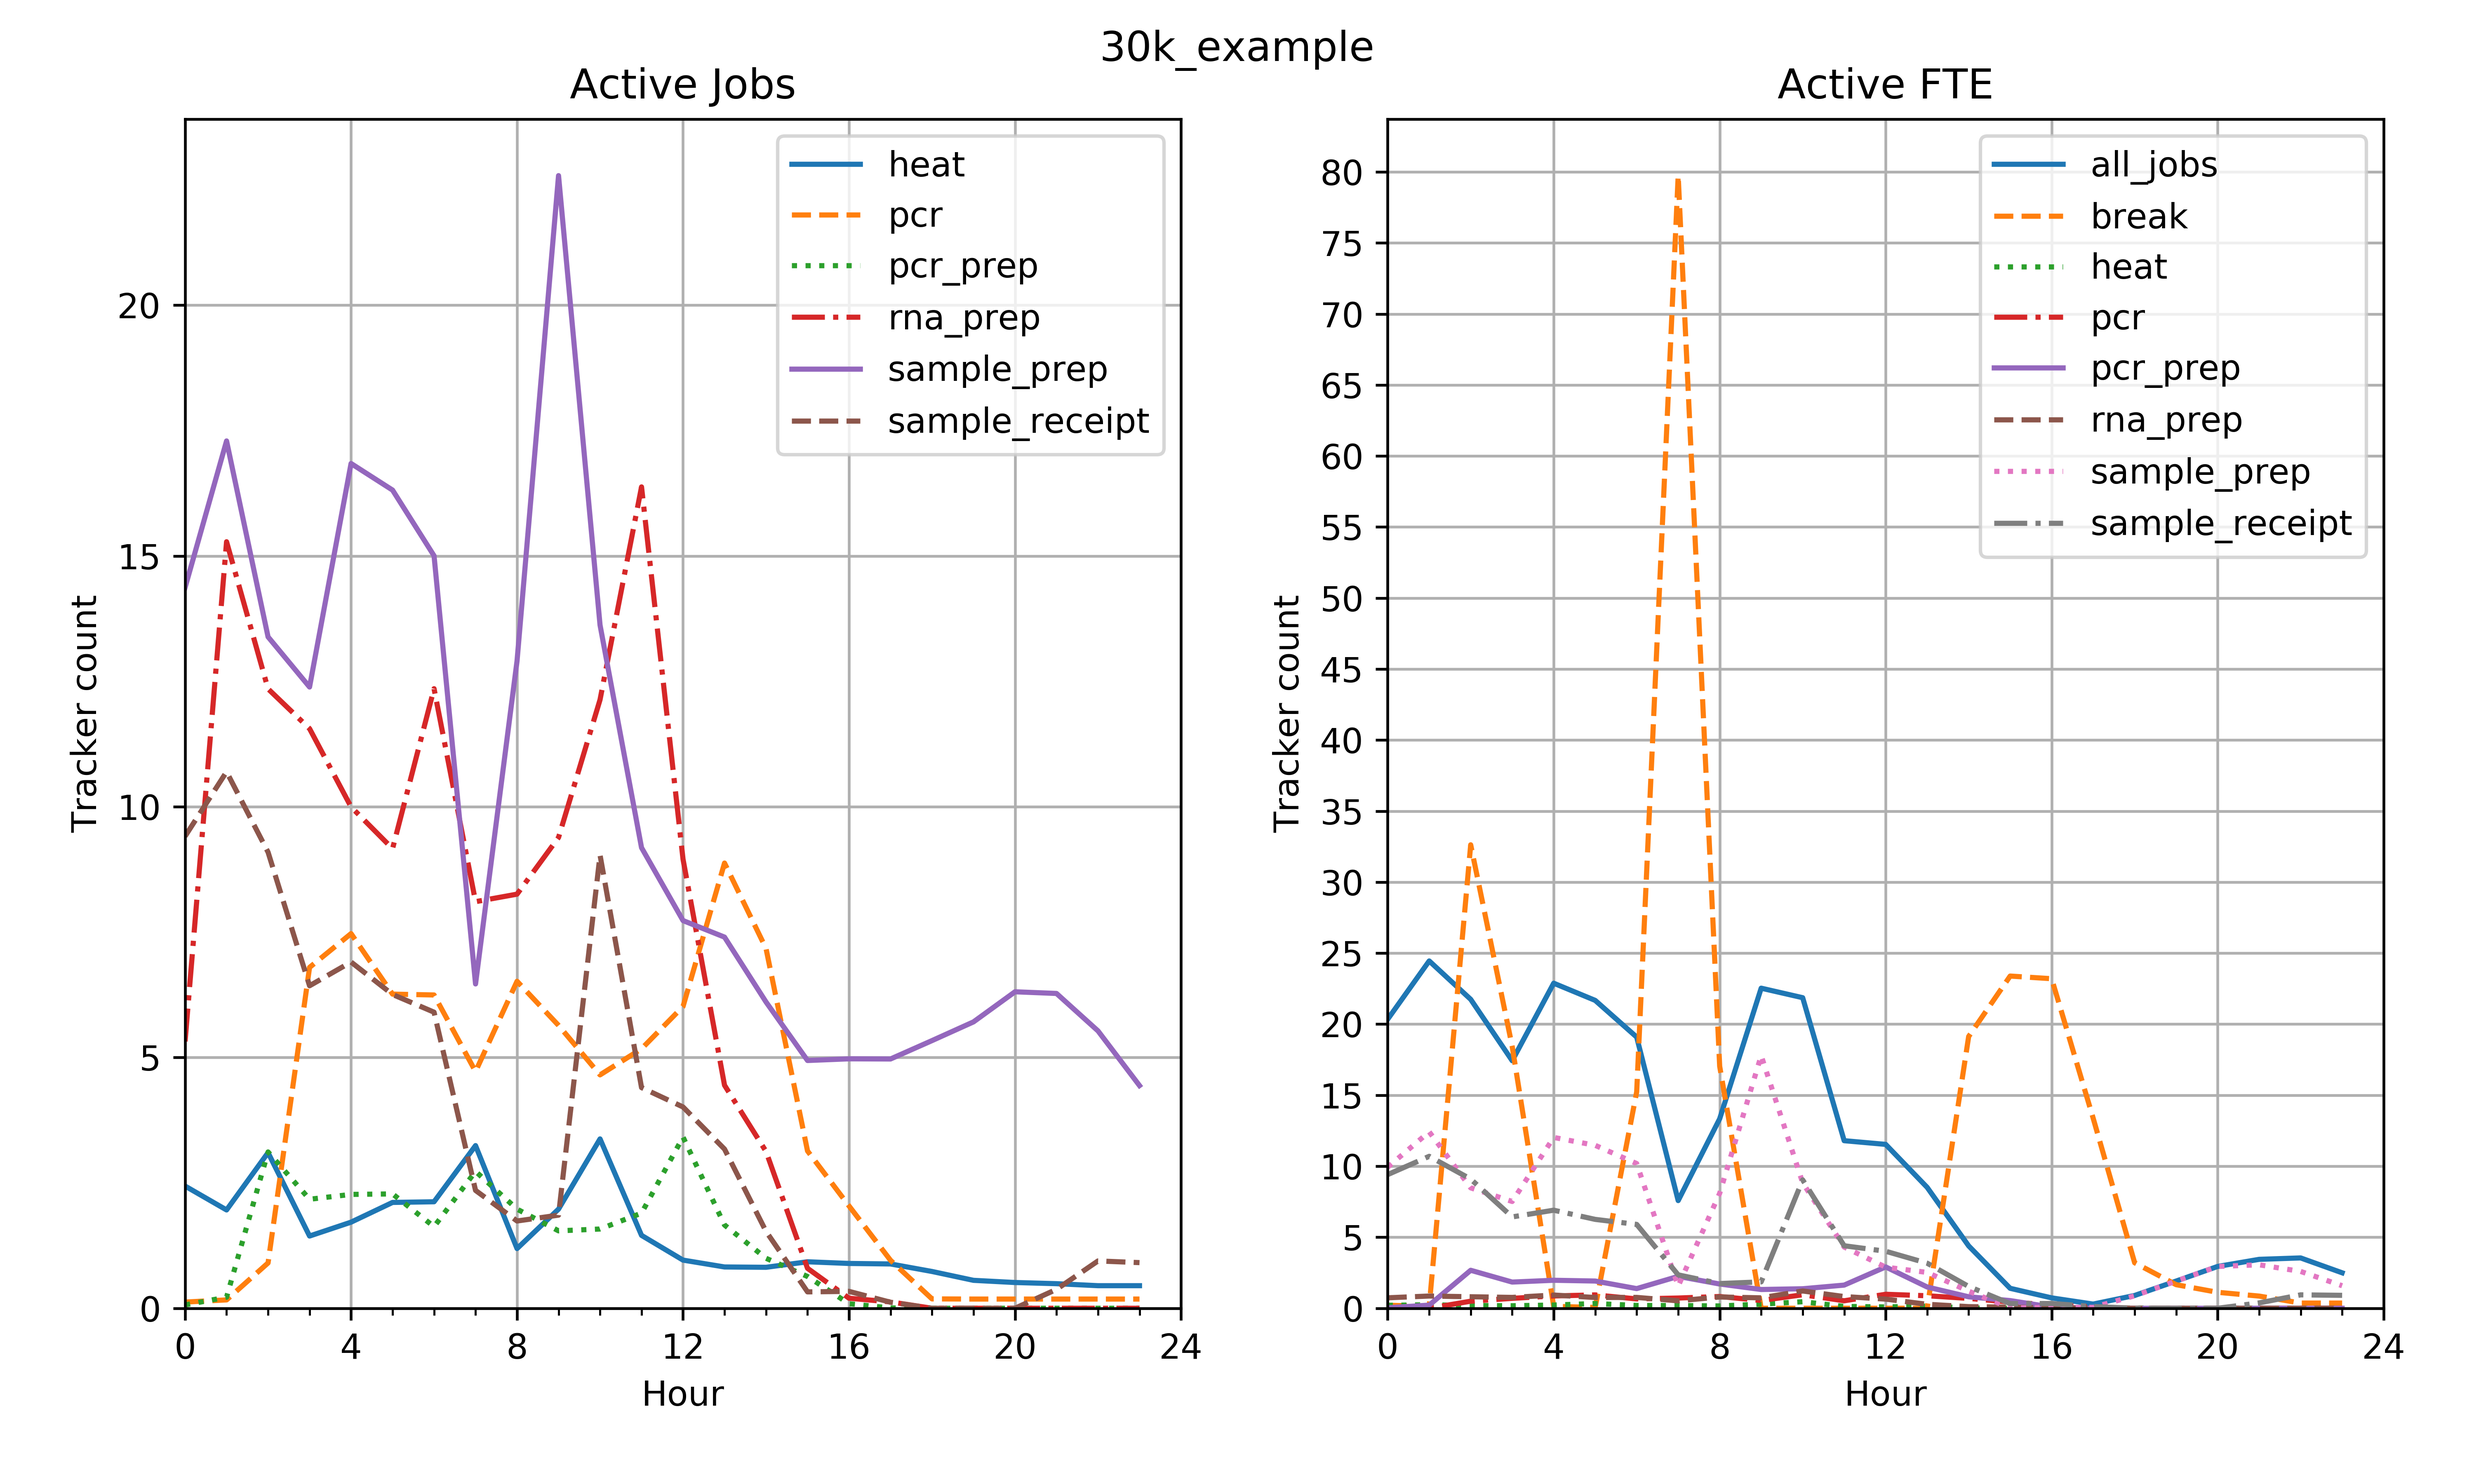
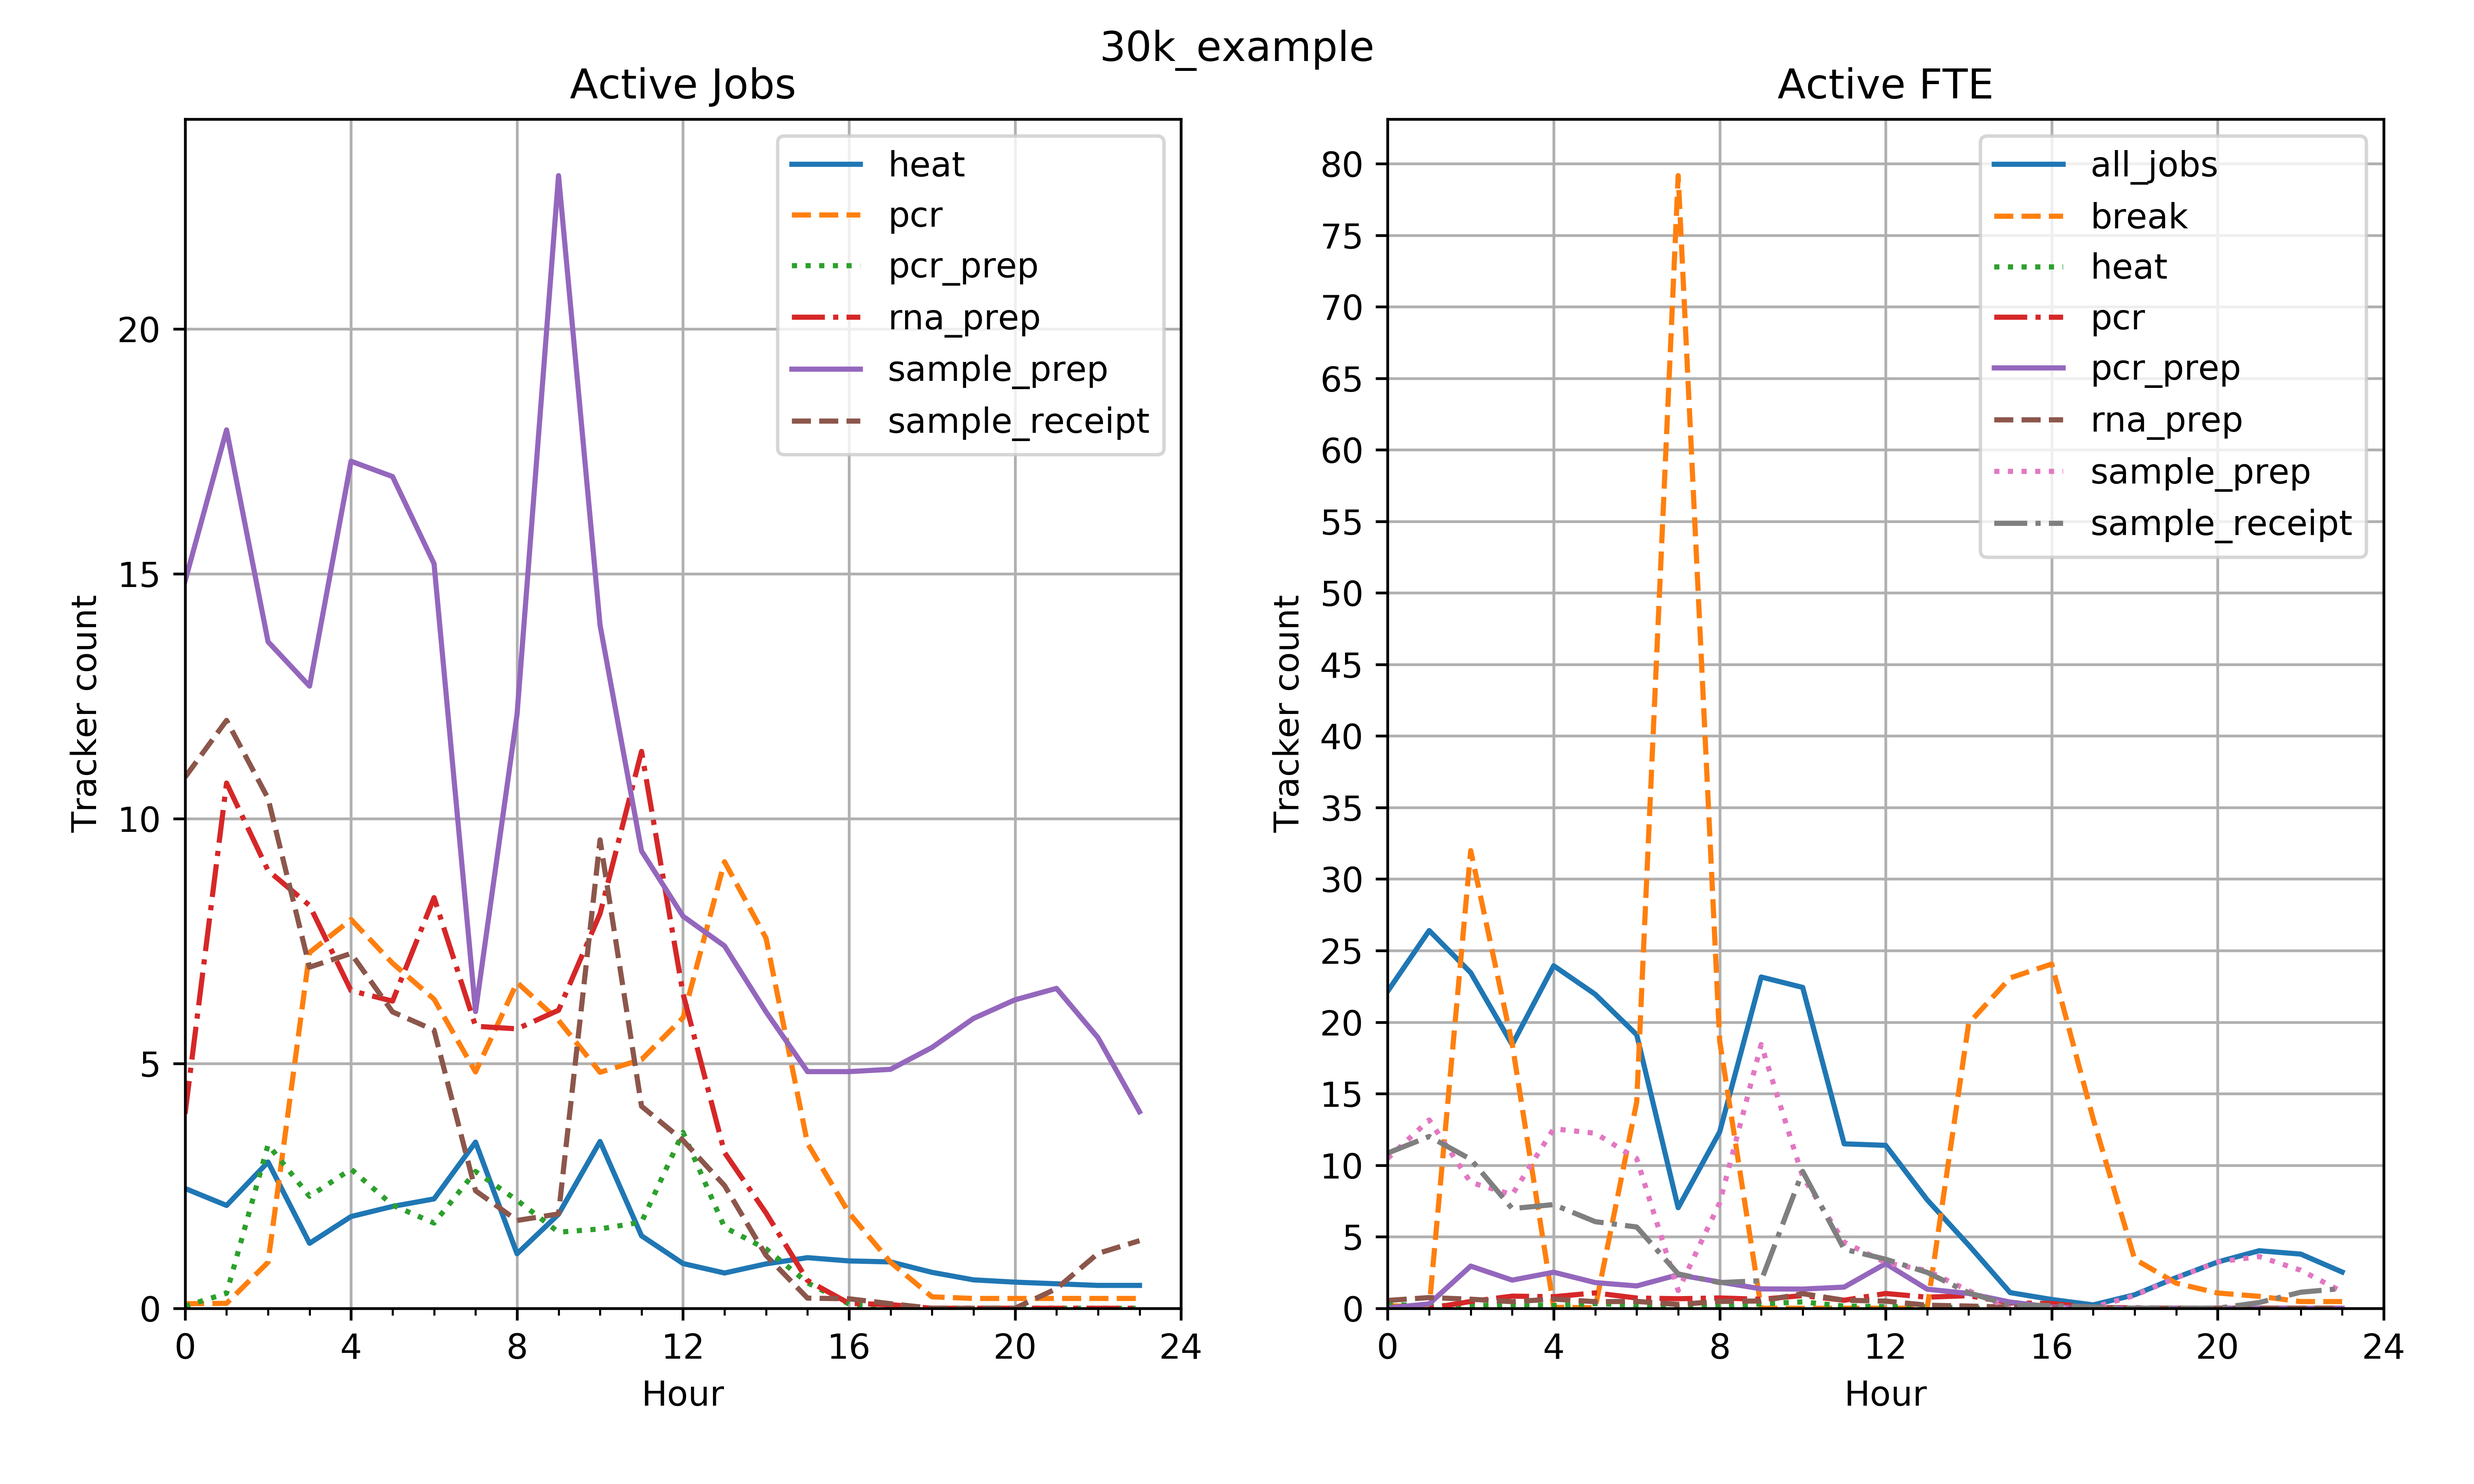
Allow RNA prep batch size ro be altered

diff --git a/sim_utils/process.py b/sim_utils/process.py
@@ -1,6 +1,7 @@
 from sim_utils.process_steps import ProcessSteps
 from sim_utils.audit import Audit
 
+
 class Process:
     """
     A collection of process steps.
@@ -12,10 +13,10 @@ class Process:
     parent_child = child ids for each parent id (dictionary)
  
     """
-    
+
     def __init__(self, _env, _params, resources, resources_available,
                  resources_occupied, workstation_assigned_jobs):
-        
+
         # Question: do we need a dictionary of all enitites in model?
         self._env = _env
         self._params = _params
@@ -29,7 +30,7 @@ class Process:
         self.resources_available = resources_available
         self.resources_occupied = resources_occupied
         self.workstation_assigned_jobs = workstation_assigned_jobs
-        
+
         # Queues for assignment
         self.queues = {
             'q_batch_input': [],
@@ -43,10 +44,11 @@ class Process:
             'q_pcr_prep': [],
             'q_rna_collation': [],
             'q_rna_extraction': [],
+            'q_rna_extraction_split': [],
             'q_sample_receipt': [],
             'q_sample_prep': []
-            }
-            
+        }
+
         # Queue monitor (lists of time/time out tuples)
         self.queue_monitors = {
             'q_data_analysis': [],
@@ -58,10 +60,11 @@ class Process:
             'q_pcr_prep': [],
             'q_rna_collation': [],
             'q_rna_extraction': [],
+            'q_rna_extraction_split': [],
             'q_sample_prep': [],
             'q_sample_receipt': []
-            }
- 
+        }
+
         # Process step counters
         self.process_step_counters = {
             'data_analysis': 0,
@@ -72,7 +75,7 @@ class Process:
             'sample_prep_auto': 0,
             'sample_prep_manual': 0,
             'sample_receipt': 0,
-            }
+        }
 
         # Link from process priorities to process assign calls
         self.process_assign_calls = {
@@ -83,15 +86,14 @@ class Process:
             'sample_prep_auto': self.assign_sample_prep,
             'sample_prep_manual': self.assign_sample_prep,
             'sample_receipt': self.assign_sample_receipt
-            }
-                 
-        
+        }
+
     def assign(self, queue, process):
-        
+
         process_func = self.process_steps.process_step_funcs[process]
         # Assign sample_receipts
         new_unallocated_queue = []
-       
+
         while (len(self.queues[queue]) > 0):
             # Check kanban limits 
             job_size = self.queues[queue][-1].batch_size
@@ -117,7 +119,7 @@ class Process:
                     for kanban_group in relevant_kanban_groups:
                         self._params.kanban_group_counts[kanban_group] += \
                             job_size
-            
+
             # All relevant kanban limits OK -  proceed to assign job
             job = self.queues[queue].pop()
             workstation = self.indentify_workstation(process)
@@ -125,27 +127,25 @@ class Process:
                 # Allocate job to sample_receipt process
                 process_func(workstation, job)
                 self.workstation_assigned_jobs[workstation] += 1
-            else: 
+            else:
                 # Process workstations full, move all remaining jobs to
                 # unallocated job queue
                 new_unallocated_queue = [job] + self.queues[queue]
                 self.queues[queue] = []
-                
+
         self.queues[queue] = new_unallocated_queue
 
-        
     def assign_analysis(self):
         # pass any new input to process_step.batch_input
-        q = 'q_data_analysis'; process = 'data_analysis'
-        self.assign(q, process)    
-
+        q = 'q_data_analysis';
+        process = 'data_analysis'
+        self.assign(q, process)
 
     def assign_batch_input(self):
         # pass any new input to process_step.batch_input
         q = 'q_batch_input'
         process = 'batch_input'
         self.assign(q, process)
-
 
     def assign_pcr_prep(self, time_of_day, time_left):
         shift = self._params.process_start_hours['pcr_prep']
@@ -154,14 +154,12 @@ class Process:
             process = 'pcr_prep'
             self.assign(q, process)
 
-        
     def assign_pcr(self, time_of_day, time_left):
         shift = self._params.process_start_hours['pcr']
         if shift[0] * 60 <= time_of_day <= shift[1] * 60:
             q = 'q_pcr'
             process = 'pcr'
             self.assign(q, process)
-
 
     def assign_rna_extraction(self, time_of_day, time_left):
         shift = self._params.process_start_hours['rna_extraction']
@@ -171,52 +169,48 @@ class Process:
             process = 'rna_extraction'
             self.assign(q, process)
 
-
     def assign_sample_heat(self, time_of_day, time_left):
         shift = self._params.process_start_hours['sample_heat']
         if shift[0] * 60 <= time_of_day <= shift[1] * 60:
             # Assign sample_receipts
-            q = 'q_heat'; process = 'sample_heat'
+            q = 'q_heat';
+            process = 'sample_heat'
             self.assign(q, process)
-        
 
     def assign_sample_receipt(self, time_of_day, time_left):
         shift = self._params.process_start_hours['sample_receipt']
         if shift[0] * 60 <= time_of_day <= shift[1] * 60:
-                # Assign sample_receipts
-                q = 'q_sample_receipt'
-                process = 'sample_receipt'
-                self.assign(q, process)
-        
+            # Assign sample_receipts
+            q = 'q_sample_receipt'
+            process = 'sample_receipt'
+            self.assign(q, process)
+
     def assign_sample_prep(self, time_of_day, time_left):
         shift = self._params.process_start_hours['sample_prep']
-        if shift[0] * 60 <= time_of_day <= shift[1] * 60:            
+        if shift[0] * 60 <= time_of_day <= shift[1] * 60:
             q = 'q_sample_prep'
             process = 'sample_prep_auto'
             self.assign(q, process)
-            
-            #Also use manual process if allowed
+
+            # Also use manual process if allowed
             if self._params.allow_manual_sample_prep:
                 q = 'q_sample_prep'
                 process = 'sample_prep_manual'
                 self.assign(q, process)
 
-
     def collate_for_heat(self):
-        # Takes plates from sample receipt
-        self.process_steps.collate(
-            self._params.heat_batch_size, 'q_heat_collation', 'q_heat')
-
+        # Takes plates from sample receipt (will be split after)
+        self.process_steps.collate(self._params.heat_batch_size,
+                                   'q_heat_collation', 'q_heat')
 
     def collate_for_pcr(self):
-        # Takes 4 plates from sample prep
-        self.process_steps.collate(2, 'q_pcr_collation', 'q_pcr_prep')
-
+        # Takes 4 plates from RNA extraction
+        self.process_steps.collate(4, 'q_pcr_collation', 'q_pcr_prep')
 
     def collate_for_rna_extraction(self):
-        # Process two plates for RNA extraction
-        self.process_steps.collate(2, 'q_rna_collation', 'q_rna_extraction')
-
+        # Process multiple plates for RNA extraction (will be split after)
+        self.process_steps.collate(self._params.rna_extraction_batch_size,
+                                   'q_rna_collation', 'q_rna_extraction')
 
     def control_process(self):
         yield self._env.timeout(5)
@@ -225,28 +219,27 @@ class Process:
 
             time_of_day = self._env.now % self._params.day_duration
             time_left = self._params.day_duration - time_of_day
-            
+
             # Model admin jobs (no resources needed)
             self.assign_batch_input()
             self.assign_analysis()
             self.collate_for_pcr()
             self.collate_for_rna_extraction()
+            self.split_after_rna_extraction()
             self.collate_for_heat()
             self.split_after_heat()
-            
+
             for key in self._params.process_priorites.keys():
                 self.process_assign_calls[key](time_of_day, time_left)
-                    
+
             # Time before next control loop
             yield self._env.timeout(1.0)
-           
-    
+
     def display_day(self):
         while True:
-            print (f'\r>> Day {int(self._env.now/self._params.day_duration)}',
-                   end='')
+            print(f'\r>> Day {int(self._env.now / self._params.day_duration)}',
+                  end='')
             yield self._env.timeout(self._params.day_duration)
-
 
     def end_run_routine(self):
         self.audit.summarise_in_out()
@@ -254,17 +247,17 @@ class Process:
         self.audit.summarise_queues()
         self.audit.summarise_queue_times()
         self.audit.summarise_trackers()
-            
+
     def indentify_workstation(self, process):
         """
         Loops through workstations that can perform a process. Looks for 
         workstation with greatest remaining capacity. If no workstation has
         capapcity, returns 'none'
         """
-        
+
         selected_workstation = 'none'
         best_remaining_capacity = 0
-        
+
         workstations = self._params.process_workstations[process]
         for workstation in workstations:
             workstation_capacity = \
@@ -274,14 +267,12 @@ class Process:
             if remaining_capacity > best_remaining_capacity:
                 best_remaining_capacity = remaining_capacity
                 selected_workstation = workstation
-        
+
         return selected_workstation
-    
 
     def set_up_audit(self):
         self.audit = Audit(self)
-     
-        
+
     def set_up_breaks(self):
         if len(self._params.meal_break_times) > 0:
             for meal_break in self._params.meal_break_times:
@@ -292,11 +283,13 @@ class Process:
                 self._env.process(
                     self.process_steps.generate_tea_breaks(tea_break))
 
-            
     def set_up_process_steps(self):
         self.process_steps = ProcessSteps(self)
-
 
     def split_after_heat(self):
         self.process_steps.split(
             self._params.heat_batch_size, 'q_heat_split', 'q_rna_collation')
+
+    def split_after_rna_extraction(self):
+        self.process_steps.split(self._params.rna_extraction_batch_size,
+                                 'q_rna_extraction_split', 'q_pcr_collation')

diff --git a/sim_utils/process_steps.py b/sim_utils/process_steps.py
@@ -711,7 +711,7 @@ class ProcessSteps:
                         batch_size=self._params.basic_batch_size,
                         entity_id=self._id_count,
                         entity_type='plate for pcr',
-                        last_queue='q_pcr_collation',
+                        last_queue='q_rna_extraction_split',
                         last_queue_time_in=self._env.now,
                         parent_ids=[job.entity_id],
                         time_in=job.time_in)
@@ -721,7 +721,7 @@ class ProcessSteps:
             machine_resources=machine_resources,
             stage_process_times=stage_process_times,
             priority=process_priority, entity_to_create=entity,
-            queue_to_add_new_entity='q_pcr_collation',
+            queue_to_add_new_entity='q_rna_extraction_split',
             process_step='rna_extraction'))
 
         self.record_queuing_time(

diff --git a/sim_utils/audit.py b/sim_utils/audit.py
@@ -146,7 +146,7 @@ class Audit:
                             self._params.heat_batch_size,
             'q_rna_extraction': self._params.basic_batch_size,
             'q_pcr_collation': self._params.basic_batch_size,
-            'q_pcr_prep': self._params.basic_batch_size * 2,
+            'q_pcr_prep': self._params.basic_batch_size * 4,
             'q_pcr': self._params.basic_batch_size * 4,
             'q_data_analysis': self._params.basic_batch_size * 4,
             'q_completed': self._params.basic_batch_size * 4

diff --git a/sim_utils/parameters.py b/sim_utils/parameters.py
@@ -132,8 +132,9 @@ class Scenario(object):
         # Allow manual sample prep (automated prep will be chosen first if free)
         self.allow_manual_sample_prep = True
 
-        # Batch sizing for heat stage
+        # Batch sizing for stages (collate for job then resplit)
         self.heat_batch_size = 4
+        self.rna_extraction_batch_size = 3
 
         # Add a triangular distribution of extra time per process
         # Average extra time with be 1/4 of this

diff --git a/sim.py b/sim.py
@@ -5,7 +5,7 @@ from sim_utils.parameters import Scenario
 
 
 scenario = Scenario(
-
+    samples_per_day = 93 * 12,
     run_days = 2,
     warm_up_days = 2
 )
